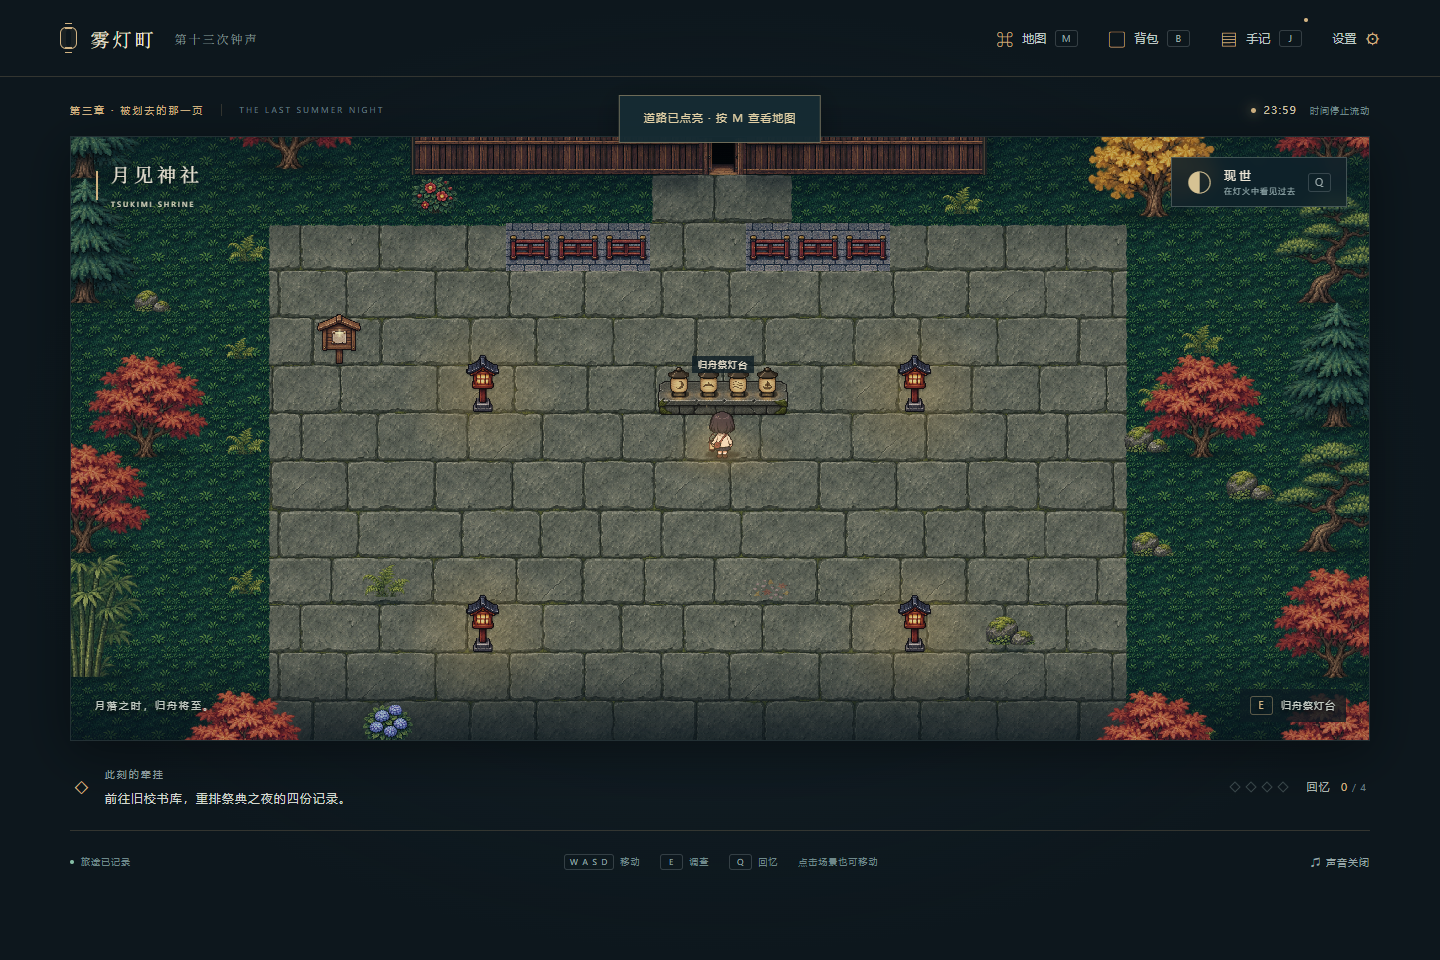
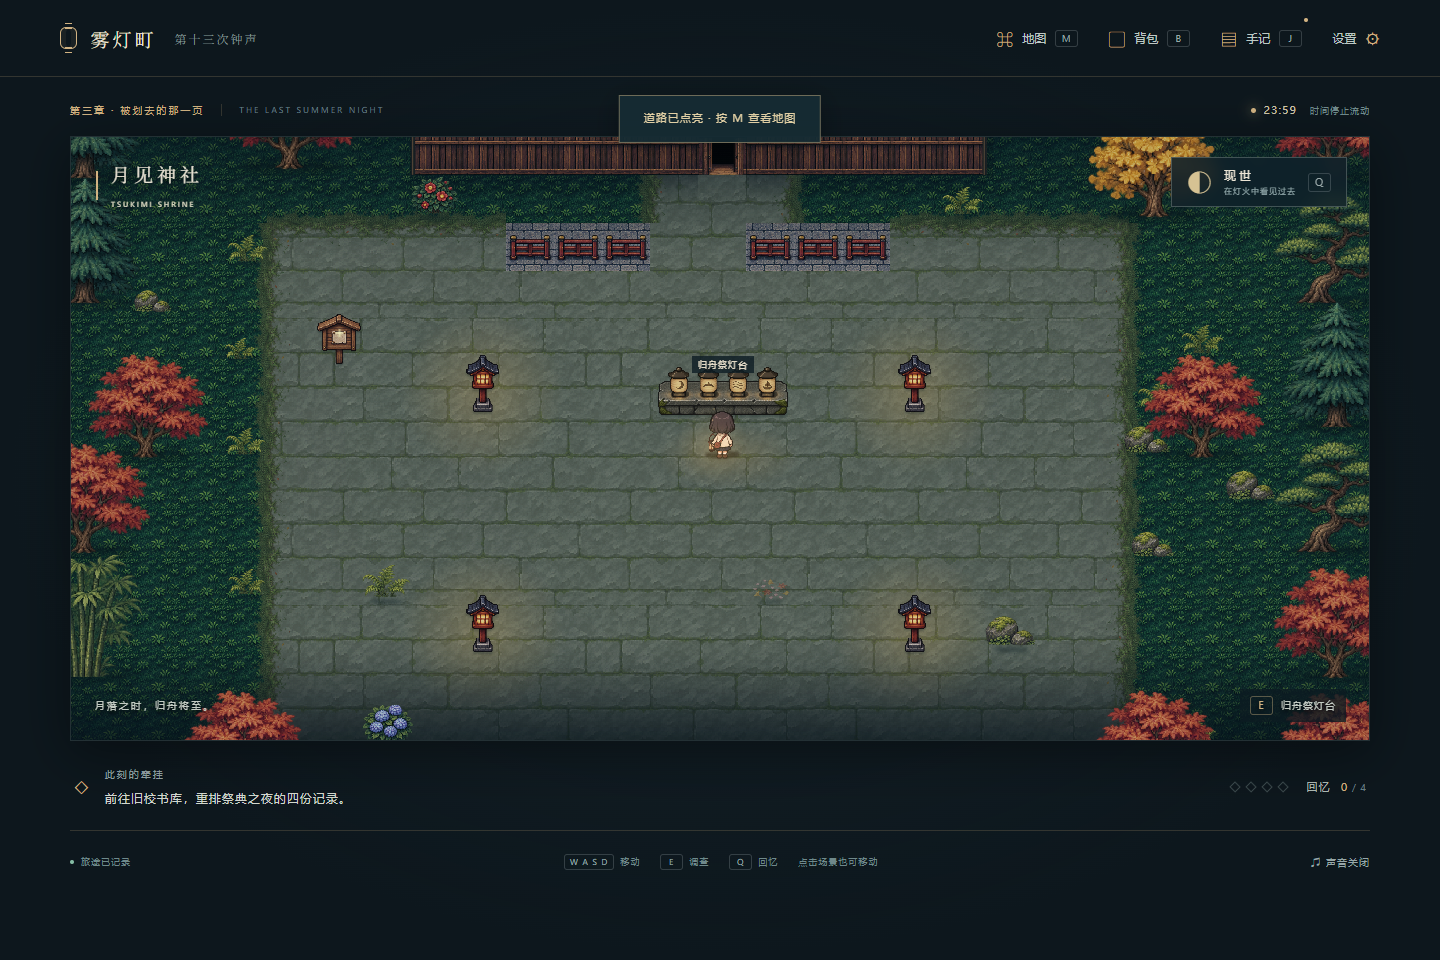
Soften shrine paving and blend courtyard borders with moss

Changed region(s): [[0.1562, 0.1875, 0.8125, 0.75]]

diff --git a/world.js b/world.js
@@ -13,7 +13,7 @@
   const nativeFurniture={};for(const size of [32,48]){const sheet=new Image();sheet.src='assets/interior-native-'+size+'.png?v=shrine-20261117';nativeFurniture[size]=sheet;}
   const nativeItems={};for(const size of [12,16]){const sheet=new Image();sheet.src='assets/item-icons-'+size+'.png';nativeItems[size]=sheet;}
   const floorGrains=new Image();floorGrains.src='assets/shrine-library-materials.png';
-  const shrinePaving={};for(const size of [32,48]){const sheet=new Image();sheet.src='assets/shrine-paving-native-'+size+'.png';shrinePaving[size]=sheet;}
+  const shrinePaving={},shrineFringe={};for(const size of [32,48]){const sheet=new Image();sheet.src='assets/shrine-paving-v2-native-'+size+'.png';shrinePaving[size]=sheet;const edge=new Image();edge.src='assets/shrine-fringe-native-'+size+'.png';shrineFringe[size]=edge;}
   const woodGrain=new Image();woodGrain.src='assets/interior-wood-grain.png';
   const tatamiImage=new Image();tatamiImage.src='assets/tatami-mat.png';let tatamiBounds=null;
   const view = { tile: 48, x: 0, y: 0, width: 1, height: 1, zone: 'station' };
@@ -103,7 +103,7 @@
     if(material==='shrine-stone'&&shrinePaving[view.tile].naturalWidth){
       let patterns=contextPatterns.get(pen);if(!patterns){patterns=new Map();contextPatterns.set(pen,patterns);}
       const key='shrine-paving:'+size+':'+view.tile,source=shrinePaving[view.tile];
-      if(!patterns.has(key)){if(size===view.tile)patterns.set(key,pen.createPattern(source,'repeat'));else{const small=document.createElement('canvas');small.width=small.height=size*8;const p=small.getContext('2d');p.imageSmoothingEnabled=false;p.drawImage(source,0,0,small.width,small.height);patterns.set(key,pen.createPattern(small,'repeat'));}}
+      if(!patterns.has(key)){if(size===view.tile)patterns.set(key,pen.createPattern(source,'repeat'));else{const small=document.createElement('canvas');small.width=small.height=size*6;const p=small.getContext('2d');p.imageSmoothingEnabled=false;p.drawImage(source,0,0,small.width,small.height);patterns.set(key,pen.createPattern(small,'repeat'));}}
       const pattern=patterns.get(key);pattern.setTransform(new DOMMatrix().translate(-originX,-originY));pen.fillStyle=pattern;pen.fillRect(x,y,size,size);return;
     }
     if(material==='shrine-stone'||material==='library-wood'||material==='tower-stone'){
@@ -133,6 +133,7 @@
     pen.drawImage(source,(id%columns)*sw+inset,Math.floor(id/columns)*sh+inset,sw-inset*2,sh-inset*2,x,y,size,size);
   }
   function blendEdge(map,x,y,px,py) {
+    if(map.id==='shrine')return; // The shrine uses a continuous two-sided moss fringe below.
     const index=y*map.w+x, material=map.materials[index], size=view.tile;
     if(material!=='stone'&&material!=='dirt') return;
     [[0,-1], [1,0], [0,1], [-1,0]].forEach(([dx,dy], side)=>{
@@ -145,6 +146,20 @@
       ctx.closePath();ctx.clip();ctx.translate(size/2,size/2);ctx.rotate(-side*Math.PI/2);ctx.translate(-size/2,-size/2);
       texture(ctx,map.tiles[i],0,0,size,'grass');ctx.restore();
     });
+  }
+  function drawShrineEdges(pen,map,size,originX=0,originY=0){
+    const source=shrineFringe[view.tile];if(map.id!=='shrine'||!source.naturalWidth)return;
+    // Draw after every ground cell: the fringe spans both sides of the boundary.
+    // Its source position follows world coordinates, including opposite-facing edges.
+    for(let y=0;y<map.h;y++)for(let x=0;x<map.w;x++){
+      if(map.materials[y*map.w+x]!=='stone')continue;
+      [[0,-1],[1,0],[0,1],[-1,0]].forEach(([dx,dy],side)=>{
+        const nx=x+dx,ny=y+dy;if(nx<0||ny<0||nx>=map.w||ny>=map.h||map.materials[ny*map.w+nx]!=='grass')return;
+        const along=[x,y,-x-1,-y-1][side],frame=((along%6)+6)%6;
+        pen.save();pen.translate((x+.5)*size-originX,(y+.5)*size-originY);pen.rotate(side*Math.PI/2);
+        pen.drawImage(source,frame*view.tile,0,view.tile,view.tile*2,-size/2,-size*1.5,size,size*2);pen.restore();
+      });
+    }
   }
   function fineWear(map,x,y,px,py) {
     const material=map.materials[y*map.w+x],r=root.KiriScenery.hash(x,y,91);
@@ -301,7 +316,7 @@
         if (id === 6 || id === 7) { ctx.fillStyle = `rgba(102,183,206,${.04 + Math.sin(time * .0015 + x * .7 + y * .3) * .035})`; ctx.fillRect(px, py, view.tile, view.tile); }
       }
     }
-    drawTatami(ctx,map,view.tile,originX,originY);drawPlatform(ctx,map,view.tile,originX,originY);
+    drawShrineEdges(ctx,map,view.tile,originX,originY);drawTatami(ctx,map,view.tile,originX,originY);drawPlatform(ctx,map,view.tile,originX,originY);
     ctx.fillStyle = phase === 'echo' ? 'rgba(226,210,174,.07)' : 'rgba(5,22,38,.22)'; ctx.fillRect(0, 0, view.width, view.height);
     map.lights.forEach(({x,y})=>{
       const p = project({ x, y: y - .35 }), radius = view.tile * 1.7;
@@ -318,7 +333,7 @@
     const pen = output.getContext('2d'); pen.imageSmoothingEnabled = false;
     if (!image.complete || !image.naturalWidth) return;
     map.tiles.forEach((tile, i) => {const x=i%map.w,y=Math.floor(i/map.w),building=buildingAt(map,x,y);texture(pen,building?map.floor:tile,x*size,y*size,size,building?'grass':groundMaterial(map,i));});
-    drawTatami(pen,map,size);drawPlatform(pen,map,size);
+    drawShrineEdges(pen,map,size);drawTatami(pen,map,size);drawPlatform(pen,map,size);
     const layers=map.buildings.map(b=>({z:depth(b.frontY-.92),draw:()=>paintBuilding(pen,map,b,size,0,0)}));
     if(foliage.complete&&foliage.naturalWidth) {
       const sw=foliage.naturalWidth/4,sh=foliage.naturalHeight/4;
@@ -330,5 +345,5 @@
     map.props.filter(p=>root.KiriCore.inPhase(progress,p.phase)).forEach(p=>{const pose=root.KiriMaps.attachmentPose(zone,p),g=p.grid;layers.push({z:pose?depth(pose.building.frontY-.92,1):depth(root.KiriMaps.propGroundY(zone,p),p.surfaceOn?1:g?0:-1),draw:()=>{const frame=propFrame(p,solved,progress),{source,columns,rows,sprite}=frame;if(!source.complete||!source.naturalWidth)return;if(g){drawGridFrame(pen,frame,g.x*size,g.top*size,g.w*size,g.h*size);return;}if(frame.nativeItem){const extent=p.size*size,surface=root.KiriMaps.surfacePose(zone,p),x=(surface?surface.x+.5:p.x+.5)*size,y=(surface?surface.y+.92:p.y+.92)*size;drawGridFrame(pen,frame,x-extent/2,y-(surface?extent/2:extent),extent,extent);return;}const sw=source.naturalWidth/columns,sh=source.naturalHeight/rows,extent=p.size*size,x=pose?pose.x:p.x+.5,y=pose?pose.bottomY:p.y+.92;pen.drawImage(source,sprite%columns*sw+4,Math.floor(sprite/columns)*sh+4,sw-8,sh-8,x*size-extent*.5,y*size-extent*.985,extent,extent);}});});
     layers.sort((a,b)=>a.z-b.z).forEach(layer=>layer.draw());
   }
-  root.KiriRenderer = { view, resize, draw, project, unproject, thumbnail, depth, assetsReady:()=>[image,foliage,mountedImage,worldProps,stoneGrain,stationKit,craneImage,explorationImage,explorationCleared,...Object.values(nativeFurniture),...Object.values(nativeItems),...Object.values(shrinePaving),floorGrains,woodGrain,tatamiImage].every(i=>i.complete&&i.naturalWidth>0)&&!!root.KiriLighting?.assetsReady() };
+  root.KiriRenderer = { view, resize, draw, project, unproject, thumbnail, depth, assetsReady:()=>[image,foliage,mountedImage,worldProps,stoneGrain,stationKit,craneImage,explorationImage,explorationCleared,...Object.values(nativeFurniture),...Object.values(nativeItems),...Object.values(shrinePaving),...Object.values(shrineFringe),floorGrains,woodGrain,tatamiImage].every(i=>i.complete&&i.naturalWidth>0)&&!!root.KiriLighting?.assetsReady() };
 })(globalThis);

diff --git a/docs/SHRINE-EDGE-REFINEMENT.md b/docs/SHRINE-EDGE-REFINEMENT.md
@@ -1,0 +1,24 @@
+# 神社铺地与苔草边界细化
+
+日期：2026-11-17。
+
+## 第二轮：降低地面存在感并补齐边界
+
+反馈指出石板过抢眼、草地交界仍像矩形贴片。本轮缩小铺石，压低明暗反差和接缝，重新生成 assets/shrine-aged-paving-v2.png；新地面重复单元为6×6格（192/288像素），输出 assets/shrine-paving-v2-native-32.png、assets/shrine-paving-v2-native-48.png。
+
+新增透明苔草过渡 assets/shrine-moss-fringe.png，等比导入为6×2格的 assets/shrine-fringe-native-32.png、assets/shrine-fringe-native-48.png。统一在铺地完成后绘制，跨越草地和石板两侧；四向旋转按世界坐标取片，覆盖外沿、转角和连接门口的小路，摄像机移动时不漂移。缩略图采用同一边界。保持原地图可行走区域与解谜进度。
+
+使用内置 image_gen 生成。桌面及手机实际预览、四向边缘随摄像机移动的像素一致性检查见 QA.md。
+
+### 柔和小石铺地提示词
+
+```text
+Use case: stylized-concept. Production seamless square pixel-art ground texture for a traditional top-down Japanese 2D RPG shrine garden. A quiet, aged grey-green stone courtyard. Roughly eight horizontal courses of SMALL hand-cut rectangular stones, irregular lengths, slender subdued mossy seams. Uniform restrained muted cool grey-green colors, very low stone-to-stone difference, finer softer surface grain, faint wear, shallow edges. The surface should recede behind characters and plants, and harmonize with a dark green woodland garden. No deep black outlines, no bright bevels, no chiseled massive blocks, no marble. Stone joins remain visible but soft. Consistent overhead ambient illumination, flat straight-down orthographic plane with no depth perspective or side faces. Seamless repeat across all four image boundaries. Pixel clusters suitable for reduction to288x288 pixels, calm classic JRPG environmental art. No objects, no foliage clumps, no central pattern, no text, no gradients, no vignette, no obvious alternating shades, no sandy beige, no patches or mosaic of different materials.
+```
+
+### 苔草边缘提示词
+
+```text
+Use case: stylized-concept. Transparent pixel-art ground transition overlay for a classic top-down Japanese RPG. ONE long horizontal, irregular soft woodland grass / moss / dark soil fringe on a fully transparent canvas, panoramic aspect ratio8:1. This is NOT a scene, NOT a square terrain tile and NOT a solid background. Across the middle runs a broken organic boundary from dark forest turf above into an old paved courtyard below. Upper half: closely packed tiny desaturated dark forest-green grass blades and moss, with irregular alpha gaps, density near the middle then thinning towards the top edge. Lower half: extremely sparse little moss tongues, short grass blades, earthy dark grey-brown speckles and a few tiny muted fallen leaves extending below the middle, with increasingly large transparent gaps towards the lower edge. The pavement itself must be entirely transparent, not painted. Dense green area only about1/3 the strip's height, subtle darkest soil lies under the moss, transparent bottom third except isolated fine tips. Softness is achieved by irregular crisp pixel clusters and alpha holes, NOT blur or a uniform opacity gradient. Same lighting and scale as detailed 32/48px classic RPG tiles. Low contrast greens #344d38 #465b3c #526344 and earth #46483a. No thick hedge, no bushes, no giant leaves, no large rocks, no broad brown stripe, no white edge, no hard straight outline, no text, no checkerboard baked in. Horizontal ends naturally repeat. Keep object content in the middle60% of the strip height and leave transparent breathing room above and below.
+```
+

diff --git a/docs/QA.md b/docs/QA.md
@@ -137,3 +137,9 @@
 41项规则检查通过，其中33项核心规则、8项移动。新增覆盖三格碰撞、朝向调查、旧存档落在新增占地时安全恢复。`--chapter-preview` 实地解开祭灯台，比较画布确认点亮前后切换，并检查390像素手机画布大小；同时复看书库及钟楼。预览为 `preview-shrine-floor.png`、`preview-shrine-altar.png`、`preview-shrine-mobile.png`。素材与完整生图提示词见 [神社庭院记录](SHRINE-COURTYARD.md)。
 
 本轮完整浏览器通关复验13组通过，四种结局均从界面触发，浏览器错误为0。覆盖新灯台解谜、各章节探索、存读档、移动转向、室内原生像素家具和手机布局；网页构建检查通过。
+
+## 神社铺地与草地交界细化
+
+第二轮改为较小、低反差的旧石铺地，新增透明苔草与薄土边缘。边缘在完整地面之后绘制，跨越石板和草地，沿四向边界、角部与门前小径连续衔接；缩略图同步。素材预先按32/48像素网格导入，运行时不拉伸。仅改变地面绘制，地图碰撞、机关与剧情保持。
+
+41项规则检查再次通过。`--chapter-preview` 新增四向边缘随摄像机移动的像素一致性检查，并实际完成神社机关、确认点亮素材、检查390像素手机显示，同时复看书库与钟楼，浏览器错误为0。素材原图、原生尺寸和本轮完整提示词见 [边界细化记录](SHRINE-EDGE-REFINEMENT.md)。
